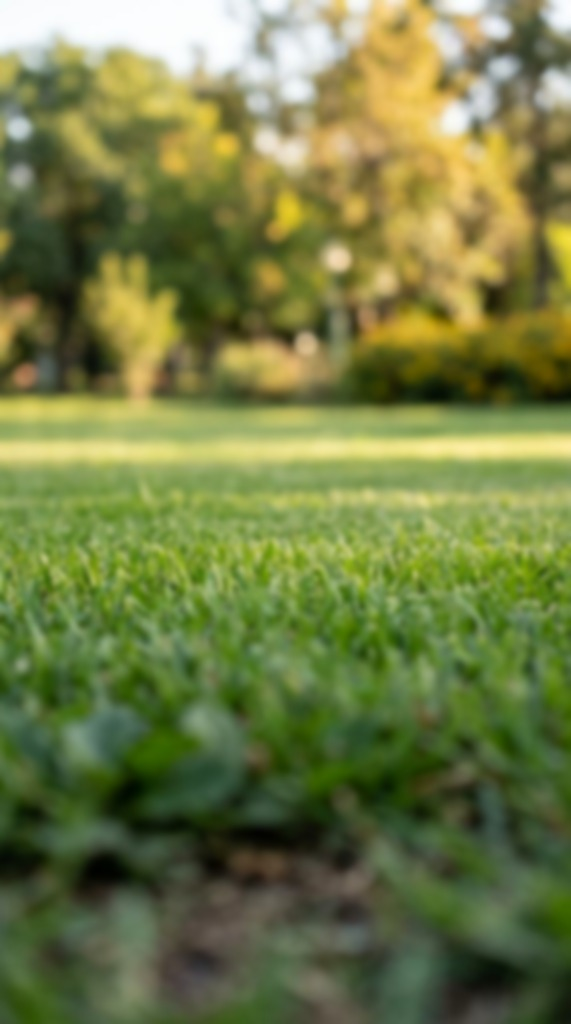
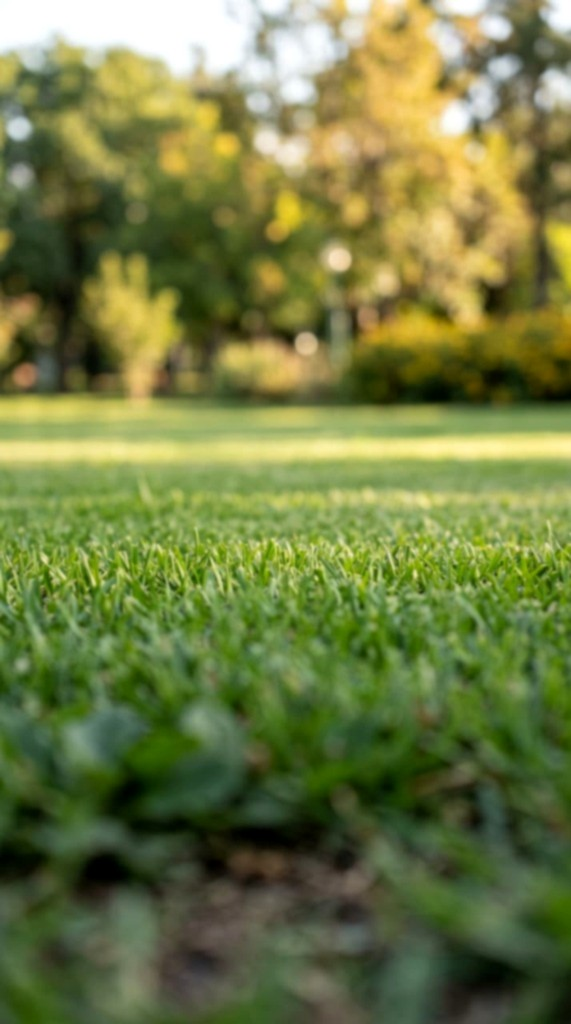
cambios8

diff --git a/css/style.css b/css/style.css
@@ -438,17 +438,15 @@ h1, h2, h3, h4 {
   height: 100%;
   object-fit: cover;
   object-position: center 40%;
-  transform: scale(1.05);
-  filter: brightness(0.9);
+  transform: scale(1.01);
+  filter: brightness(0.92);
 }
 
 .hero-bg-overlay {
   position: absolute;
   inset: 0;
   z-index: 2;
-  background: radial-gradient(circle at center 35%, rgba(14, 28, 20, 0.65) 0%, rgba(10, 22, 15, 0.9) 75%, rgba(8, 16, 11, 0.98) 100%);
-  backdrop-filter: blur(2px);
-  -webkit-backdrop-filter: blur(2px);
+  background: radial-gradient(circle at center 35%, rgba(14, 28, 20, 0.58) 0%, rgba(10, 22, 15, 0.85) 75%, rgba(8, 16, 11, 0.95) 100%);
 }
 
 .hero-container {
@@ -823,7 +821,8 @@ h1, h2, h3, h4 {
   background-position: center;
   display: flex;
   flex-direction: column;
-  justify-content: flex-end;
+  justify-content: center;
+  align-items: center;
   transition: transform 0.35s cubic-bezier(0.16, 1, 0.3, 1), box-shadow 0.35s cubic-bezier(0.16, 1, 0.3, 1);
 }
 
@@ -852,50 +851,37 @@ h1, h2, h3, h4 {
 .pillar-overlay {
   position: absolute;
   inset: 0;
-  background: linear-gradient(180deg, rgba(16, 32, 23, 0.38) 0%, rgba(12, 24, 17, 0.88) 60%, rgba(10, 20, 14, 0.96) 100%);
+  background: radial-gradient(circle at center, rgba(12, 24, 17, 0.78) 0%, rgba(10, 20, 14, 0.94) 100%);
   transition: background 0.35s ease;
   z-index: 1;
 }
 
 .pillar-card:hover .pillar-overlay {
-  background: linear-gradient(180deg, rgba(16, 32, 23, 0.22) 0%, rgba(12, 24, 17, 0.82) 55%, rgba(10, 20, 14, 0.94) 100%);
+  background: radial-gradient(circle at center, rgba(12, 24, 17, 0.68) 0%, rgba(10, 20, 14, 0.9) 100%);
 }
 
 .pillar-body {
   position: relative;
   z-index: 2;
-  padding: 1.8rem 1.6rem;
+  padding: 2.2rem 1.8rem;
   color: var(--color-white);
-}
-
-.pillar-tag {
-  display: inline-block;
-  font-family: var(--font-heading);
-  font-size: 0.72rem;
-  font-weight: 700;
-  letter-spacing: 0.12em;
-  text-transform: uppercase;
-  color: #C3E6CC;
-  background: rgba(255, 255, 255, 0.15);
-  backdrop-filter: blur(8px);
-  -webkit-backdrop-filter: blur(8px);
-  padding: 0.25rem 0.65rem;
-  border-radius: var(--radius-full);
-  margin-bottom: 0.75rem;
-  border: 1px solid rgba(255, 255, 255, 0.2);
+  text-align: center;
+  width: 100%;
 }
 
 .pillar-title {
   color: var(--color-white);
-  font-size: 1.25rem;
-  margin-bottom: 0.5rem;
+  font-size: 1.35rem;
+  margin-bottom: 0.65rem;
   letter-spacing: -0.01em;
 }
 
 .pillar-desc {
   color: #D6E3DB;
-  font-size: 0.88rem;
-  line-height: 1.5;
+  font-size: 0.9rem;
+  line-height: 1.55;
+  max-width: 320px;
+  margin: 0 auto;
 }
 
 /* ==========================================================================
@@ -1162,7 +1148,7 @@ h1, h2, h3, h4 {
 
 /* Caja compacta de Medios de Pago */
 .payment-methods-box {
-  margin: 0 auto 2rem;
+  margin: 0 auto;
   padding: 1.4rem 1.8rem;
   background: rgba(255, 255, 255, 0.05);
   border: 1px solid rgba(255, 255, 255, 0.1);
@@ -1579,7 +1565,7 @@ h1, h2, h3, h4 {
   }
 
   .pillar-body {
-    padding: 1.4rem 1.2rem;
+    padding: 1.8rem 1.4rem;
   }
 
   .coverage-card {

diff --git a/index.html b/index.html
@@ -123,7 +123,6 @@
           <div class="pillar-card pillar-bg-autonomia reveal delay-100">
             <div class="pillar-overlay"></div>
             <div class="pillar-body">
-              <span class="pillar-tag">Diferencial 01</span>
               <h4 class="pillar-title">Autonomía Total</h4>
               <p class="pillar-desc">Llevamos todo el combustible, máquinas profesionales, repuestos e insumos. No necesitás suministrarnos nada.</p>
             </div>
@@ -131,7 +130,6 @@
           <div class="pillar-card pillar-bg-periodicidad reveal delay-200">
             <div class="pillar-overlay"></div>
             <div class="pillar-body">
-              <span class="pillar-tag">Diferencial 02</span>
               <h4 class="pillar-title">Periodicidad Asegurada</h4>
               <p class="pillar-desc">Coordinamos los días fijos de visita para que tu parque siempre mantenga la misma altura, frescura y nivelación.</p>
             </div>
@@ -139,7 +137,6 @@
           <div class="pillar-card pillar-bg-entorno reveal delay-150">
             <div class="pillar-overlay"></div>
             <div class="pillar-body">
-              <span class="pillar-tag">Diferencial 03</span>
               <h4 class="pillar-title">Cuidado del Entorno</h4>
               <p class="pillar-desc">Respetamos canteros ornamentales, plantas florales y nidos de aves autóctonas como teros en tu lote.</p>
             </div>
@@ -147,7 +144,6 @@
           <div class="pillar-card pillar-bg-seriedad reveal delay-250">
             <div class="pillar-overlay"></div>
             <div class="pillar-body">
-              <span class="pillar-tag">Diferencial 04</span>
               <h4 class="pillar-title">Seriedad & Facturación</h4>
               <p class="pillar-desc">Trato formal y transparente tanto para vecinos particulares como administraciones y empresas de Zona Norte.</p>
             </div>
@@ -426,11 +422,6 @@
                 <span>Billeteras Virtuales (Mercado Pago)</span>
               </span>
             </div>
-          </div>
-
-          <div class="cta-floating-prompt">
-            <span class="prompt-pulse"></span>
-            <span>Escribinos cuando quieras desde el botón flotante de WhatsApp abajo a la derecha y coordinamos tu visita.</span>
           </div>
         </div>
       </div>
